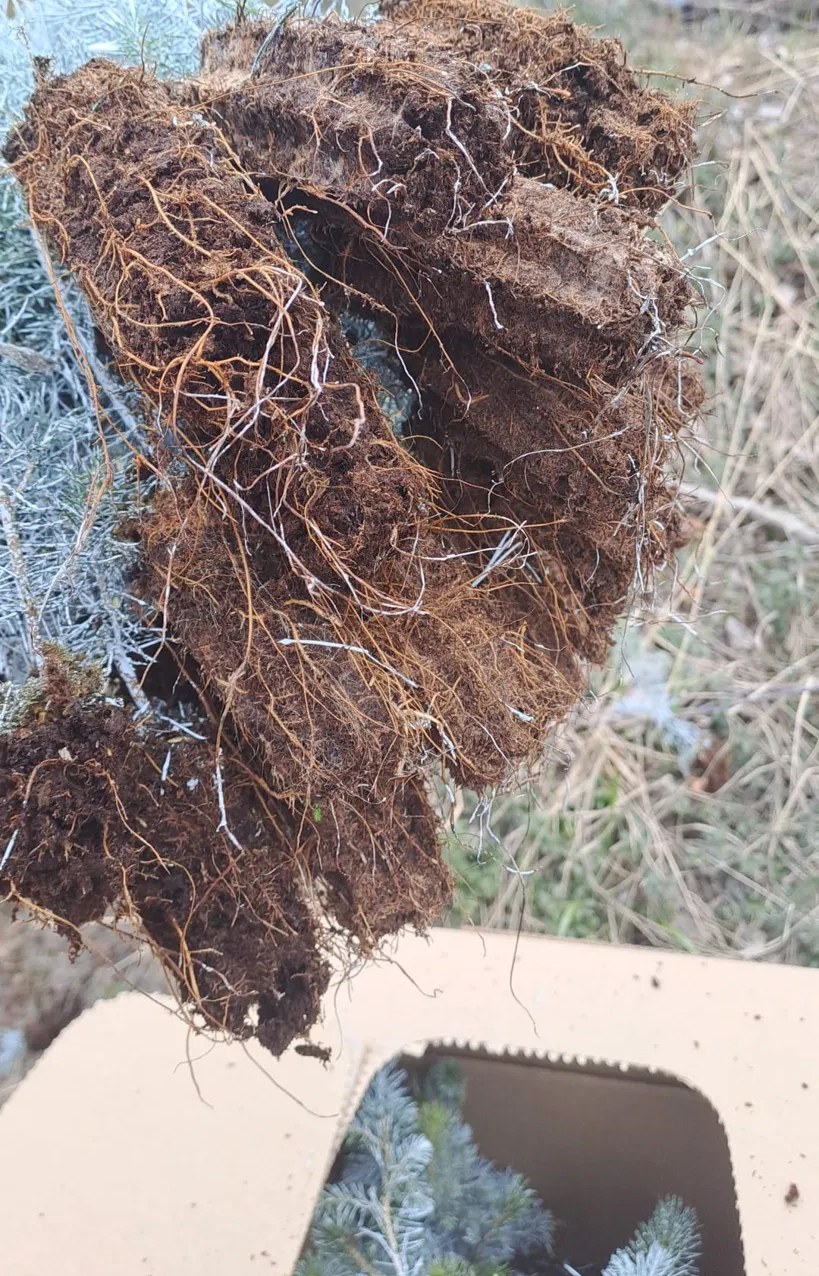
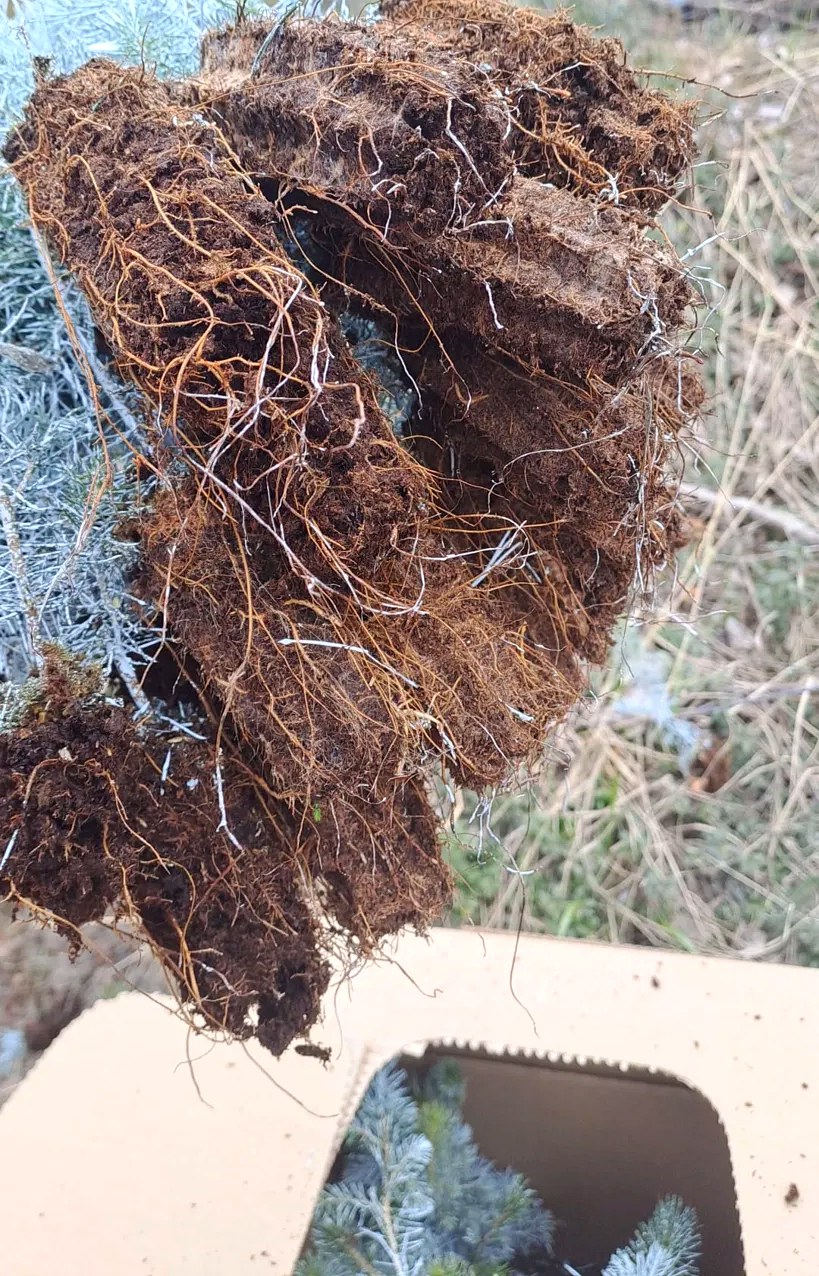
Smaller higher-contrast image, explicit mechanism chain with data

diff --git a/index.html b/index.html
@@ -44,30 +44,55 @@
   header p{font-size:clamp(16px,2.4vw,19px);color:#dbe6da;max-width:56ch}
 
   /* problem exhibit */
-  .exhibit{padding:56px 0 8px}
+  .exhibit{padding:60px 0 16px}
   .exhibit-inner{
     display:grid;
-    grid-template-columns:minmax(0,300px) 1fr;
-    gap:36px;
-    align-items:center;
+    grid-template-columns:240px 1fr;
+    gap:40px;
+    align-items:start;
   }
   .exhibit-figure{margin:0}
   .exhibit-figure img{
     width:100%;height:auto;display:block;
     border-radius:12px;
-    box-shadow:0 6px 22px rgba(28,43,33,.16);
+    box-shadow:0 6px 22px rgba(28,43,33,.20);
+  }
+  .exhibit-figure figcaption{
+    margin-top:10px;font-size:12.5px;line-height:1.45;
+    color:#6b7a6f;
   }
   .exhibit-eyebrow{
     font-size:12px;letter-spacing:.12em;text-transform:uppercase;
-    color:var(--sage);font-weight:700;margin-bottom:12px;
+    color:var(--sage);font-weight:700;margin-bottom:10px;
   }
-  .exhibit-body{
-    font-size:18px;line-height:1.6;color:#3a4a3e;
+  .exhibit-lead{
+    font-size:19px;line-height:1.5;color:var(--ink);font-weight:700;
+    margin-bottom:22px;
   }
-  .exhibit-body strong{color:var(--ink);font-weight:700}
+  /* mechanism chain */
+  .chain{list-style:none;counter-reset:step;display:grid;gap:14px;margin-bottom:22px}
+  .chain li{
+    counter-increment:step;
+    display:grid;grid-template-columns:26px 1fr;gap:14px;align-items:start;
+    font-size:15.5px;line-height:1.55;color:#3a4a3e;
+  }
+  .chain li::before{
+    content:counter(step);
+    background:var(--moss);color:#fff;
+    width:26px;height:26px;border-radius:50%;
+    display:flex;align-items:center;justify-content:center;
+    font-size:13px;font-weight:700;
+  }
+  .chain li strong{color:var(--ink);font-weight:700}
+  .exhibit-data{
+    border-left:3px solid var(--amber);
+    padding:2px 0 2px 16px;
+    font-size:14.5px;line-height:1.55;color:#4a5a4e;
+  }
+  .exhibit-data b{color:var(--ink)}
   @media(max-width:680px){
-    .exhibit-inner{grid-template-columns:1fr;gap:22px}
-    .exhibit-figure{max-width:340px;margin:0 auto}
+    .exhibit-inner{grid-template-columns:1fr;gap:24px}
+    .exhibit-figure{max-width:260px}
   }
 
   /* who's it for */
@@ -148,10 +173,18 @@
     <div class="exhibit-inner">
       <figure class="exhibit-figure">
         <img src="hero-box-seedlings.jpg" alt="Kuivunut taimen paakku ja toimituslaatikko taimineen">
+        <figcaption>Kuivunut paakku toimituslaatikon päällä. Turve on menettänyt kosteutensa varastoinnin aikana.</figcaption>
       </figure>
       <div class="exhibit-text">
-        <div class="exhibit-eyebrow">Ongelma</div>
-        <p class="exhibit-body"><strong>Paakun kuivuminen kuljetuksen ja varastoinnin aikana heikentää juurten vedenottokykyä ja taimen elpymistä istutuksen jälkeen.</strong> Taimitarhalla lisätty vesigeeli pidättää kosteutta paakussa ja tasaa sen saatavuutta toimitusketjun läpi.</p>
+        <div class="exhibit-eyebrow">Ongelma ja mekanismi</div>
+        <p class="exhibit-lead">Kuivunut paakku ei elvytä tainta, vaikka se kastellaan istutuksessa.</p>
+        <ol class="chain">
+          <li><strong>Turvepaakku sisältää rajallisen määrän vettä.</strong> Kuljetuksen ja varastoinnin aikana kosteus haihtuu ilman täydennystä.</li>
+          <li><strong>Kuivuttuaan turve muuttuu vettä hylkiväksi.</strong> Se ei ime vettä takaisin edes istutuksen jälkeen, joten juuret jäävät kuiviksi.</li>
+          <li><strong>Kuivat juuret eivät ota vettä eivätkä siihen liuenneita ravinteita.</strong> Taimen elpyminen hidastuu tai epäonnistuu.</li>
+          <li><strong>Vesigeeli paakussa pidättää vettä ja vapauttaa sitä turpeen kuivuessa.</strong> Se tasaa kosteuden saatavuutta koko toimitusketjun ajan.</li>
+        </ol>
+        <p class="exhibit-data">Kaliumpolyakrylaatti sitoo <b>jopa 250-kertaisesti</b> painonsa verran vettä ja luovuttaa sen kasvin tarpeeseen. Valmistajan istutuskokeissa taimen elpyminen parani <b>20&ndash;33 %</b> jopa vähemmällä kastelulla (Carbon Neutral Ag Sciences, kenttäkoedata).</p>
       </div>
     </div>
   </div>